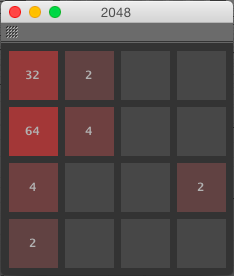
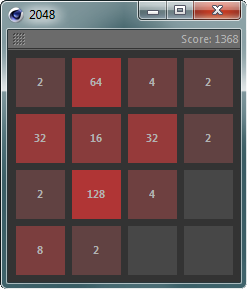
Added scoring to game logic and display of the score in the dialog menu bar.

diff --git a/README.md b/README.md
@@ -9,5 +9,4 @@ reset it.
 
 ## Todo
 
-- Display score
 - Animated tile movement would be nice
